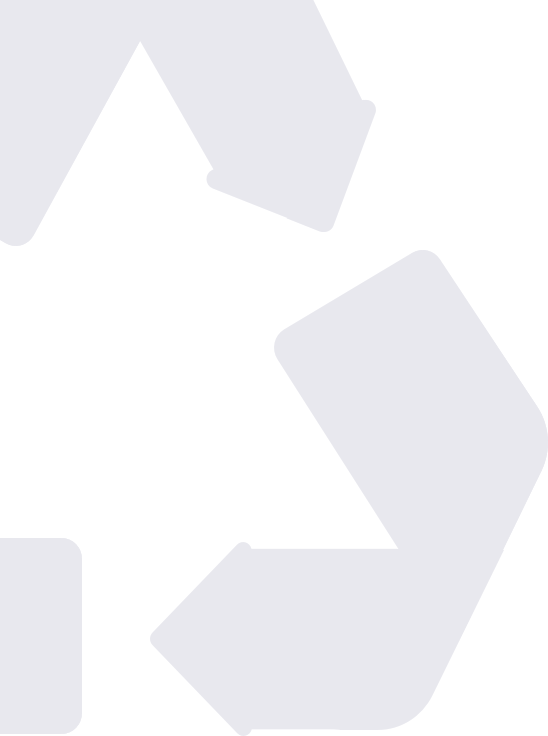
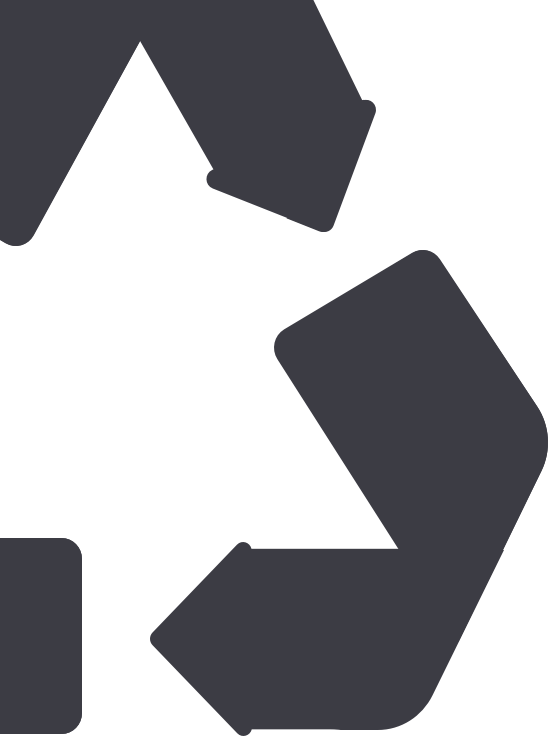
Alterando o layout para dark

diff --git a/mobile/src/pages/Points/index.tsx b/mobile/src/pages/Points/index.tsx
@@ -141,26 +141,28 @@ const Points = () => {
           ) }
         </View>  
       </View>
-      <View style={styles.itemsContainer}>
-        <ScrollView 
-          horizontal 
-          showsHorizontalScrollIndicator={false}
-          contentContainerStyle={{ paddingHorizontal: 32 }}
-        >
-          {items.map(item => (
-            <TouchableOpacity 
-              key={String(item.id)} 
-              style={[
-                styles.item, 
-                selectedItems.includes(item.id) ? styles.selectedItem : {}
-              ]} 
-              onPress={() => handleSelectItem(item.id)}
-              activeOpacity={0.6}>
-              <SvgUri width={42} height={42} uri={item.image_url} />
-              <Text style={styles.itemTitle}>{item.title}</Text>
-            </TouchableOpacity>
-          ))}
-        </ScrollView>
+      <View style={styles.footer}>
+        <View style={styles.itemsContainer}>
+          <ScrollView 
+            horizontal 
+            showsHorizontalScrollIndicator={false}
+            contentContainerStyle={{ paddingHorizontal: 32 }}
+          >
+            {items.map(item => (
+              <TouchableOpacity 
+                key={String(item.id)} 
+                style={[
+                  styles.item, 
+                  selectedItems.includes(item.id) ? styles.selectedItem : {}
+                ]} 
+                onPress={() => handleSelectItem(item.id)}
+                activeOpacity={0.6}>
+                <SvgUri width={42} height={42} uri={item.image_url} />
+                <Text style={styles.itemTitle}>{item.title}</Text>
+              </TouchableOpacity>
+            ))}
+          </ScrollView>
+        </View>
       </View>
     </>
   );
@@ -173,16 +175,22 @@ const styles = StyleSheet.create({
     flex: 1,
     paddingHorizontal: 32,
     paddingTop: 20 + Constants.statusBarHeight,
+    backgroundColor: '#1a1a1a'
+  },
+  
+  footer: {
+    backgroundColor: '#1a1a1a'
   },
 
   title: {
     fontSize: 20,
     fontFamily: 'Ubuntu_700Bold',
     marginTop: 24,
+    color: '#fff',
   },
 
   description: {
-    color: '#6C6C80',
+    color: '#fff',
     fontSize: 16,
     marginTop: 4,
     fontFamily: 'Roboto_400Regular',
@@ -235,6 +243,7 @@ const styles = StyleSheet.create({
     flexDirection: 'row',
     marginTop: 16,
     marginBottom: 32,
+    backgroundColor: '#1a1a1a'
   },
 
   item: {

diff --git a/mobile/src/pages/Detail/index.tsx b/mobile/src/pages/Detail/index.tsx
@@ -59,7 +59,7 @@ const Detail = () => {
   if (!data.serializedPoint) return null;
 
   return (
-    <SafeAreaView style={{ flex: 1 }}>
+    <SafeAreaView style={{ flex: 1, backgroundColor: '#1a1a1a' }}>
       <View style={styles.container}>
         <TouchableOpacity onPress={ handleNavigateBack }>
           <Icon name="arrow-left" size={20} color="#34cb79" />
@@ -100,6 +100,7 @@ const styles = StyleSheet.create({
     flex: 1,
     padding: 32,
     paddingTop: 20 + Constants.statusBarHeight,
+    backgroundColor: '#1a1a1a'
   },
 
   pointImage: {
@@ -111,7 +112,7 @@ const styles = StyleSheet.create({
   },
 
   pointName: {
-    color: '#322153',
+    color: '#fff',
     fontSize: 28,
     fontFamily: 'Ubuntu_700Bold',
     marginTop: 24,
@@ -122,15 +123,16 @@ const styles = StyleSheet.create({
     fontSize: 16,
     lineHeight: 24,
     marginTop: 8,
-    color: '#6C6C80'
+    color: '#fff'
   },
 
   address: {
     marginTop: 32,
+    color: '#fff',
   },
   
   addressTitle: {
-    color: '#322153',
+    color: '#fff',
     fontFamily: 'Roboto_500Medium',
     fontSize: 16,
   },
@@ -139,12 +141,12 @@ const styles = StyleSheet.create({
     fontFamily: 'Roboto_400Regular',
     lineHeight: 24,
     marginTop: 8,
-    color: '#6C6C80'
+    color: '#fff'
   },
 
   footer: {
     borderTopWidth: StyleSheet.hairlineWidth,
-    borderColor: '#999',
+    backgroundColor: '#1a1a1a',
     paddingVertical: 20,
     paddingHorizontal: 32,
     flexDirection: 'row',

diff --git a/mobile/src/pages/Home/index.tsx b/mobile/src/pages/Home/index.tsx
@@ -122,6 +122,7 @@ const styles = StyleSheet.create({
   container: {
     flex: 1,
     padding: 32,
+    backgroundColor: '#1a1a1a'
   },
 
   main: {
@@ -130,7 +131,7 @@ const styles = StyleSheet.create({
   },
 
   title: {
-    color: '#322153',
+    color: '#ffffff',
     fontSize: 32,
     fontFamily: 'Ubuntu_700Bold',
     maxWidth: 260,
@@ -138,7 +139,7 @@ const styles = StyleSheet.create({
   },
 
   description: {
-    color: '#6C6C80',
+    color: '#ffffff',
     fontSize: 16,
     marginTop: 16,
     fontFamily: 'Roboto_400Regular',

diff --git a/web/src/App.css b/web/src/App.css
@@ -2,6 +2,7 @@
   --primary-color: #34CB79;
   --title-color: #322153;
   --text-color: #6C6C80;
+  --white-color: #fff;
 }
 
 * {
@@ -11,7 +12,7 @@
 }
 
 body {
-  background: #F0F0F5;
+  background: #1a1a1a;
   -webkit-font-smoothing: antialiased;
   color: var(--text-color);
 }

diff --git a/mobile/App.tsx b/mobile/App.tsx
@@ -20,7 +20,7 @@ export default function App() {
 
   return (
     <>
-      <StatusBar barStyle="dark-content" backgroundColor="transparent" translucent />
+      <StatusBar barStyle="light-content" backgroundColor="transparent" translucent />
       <Routes />
     </>
   );

diff --git a/web/src/pages/Home/Home.css b/web/src/pages/Home/Home.css
@@ -31,7 +31,7 @@
 
 #page-home .content main h1 {
   font-size: 54px;
-  color: var(--title-color);
+  color: var(--white-color);
 }
 
 #page-home .content main p {

diff --git a/web/src/pages/CreatePoint/CreatePoint.css b/web/src/pages/CreatePoint/CreatePoint.css
@@ -14,7 +14,7 @@
 }
 
 #page-create-point header a {
-  color: var(--title-color);
+  color: var(--white-color);
   font-weight: bold;
   text-decoration: none;
 
